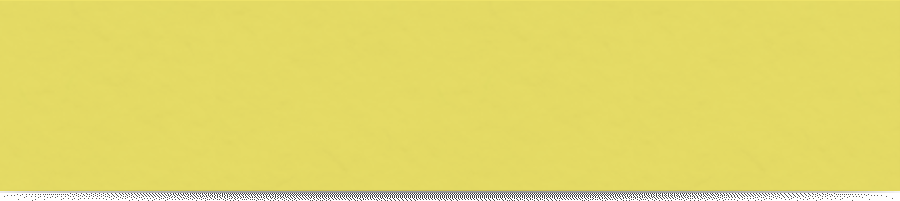
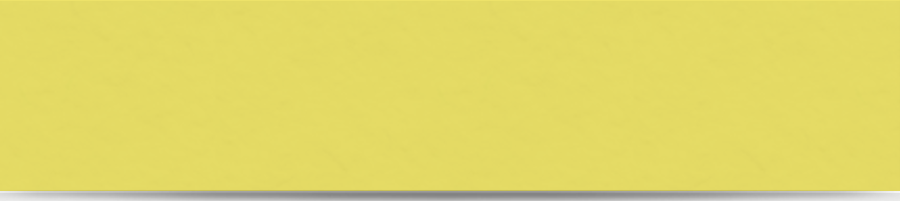
add  cell background in collection.(colored paper)

Changed region(s): [[0.0, 0.9552, 1.0, 1.0]]

diff --git a/DaysInLine/ViewController.m b/DaysInLine/ViewController.m
@@ -49,7 +49,10 @@
 @property(nonatomic, strong) NSMutableArray *collectEventStart;
 @property(nonatomic, strong) NSMutableArray *collectEventEnd;
 
+@property(nonatomic, strong) NSArray *cellBackground;
+
 @property (strong, nonatomic) IBOutlet UITableViewCell *cellinCollection;
+
 
 @end
 
@@ -76,7 +79,7 @@ bool selectedDayRedrawDone;
     }
 */
 
-
+    
 	// Do any additional setup after loading the view, typically from a nib.
     self.allTags = [[NSMutableArray alloc] init];
     self.EventsInTag = [[NSMutableArray alloc] init];
@@ -86,11 +89,13 @@ bool selectedDayRedrawDone;
     self.EventsIDInSearch = [[NSMutableArray alloc] init];
     
     self.collectEvent = [[NSMutableArray alloc] init];
-      self.collectEventTitle = [[NSMutableArray alloc] init];
-      self.collectEventTag = [[NSMutableArray alloc] init];
-      self.collectEventDate = [[NSMutableArray alloc] init];
-      self.collectEventStart = [[NSMutableArray alloc] init];
-      self.collectEventEnd = [[NSMutableArray alloc] init];
+    self.collectEventTitle = [[NSMutableArray alloc] init];
+    self.collectEventTag = [[NSMutableArray alloc] init];
+    self.collectEventDate = [[NSMutableArray alloc] init];
+    self.collectEventStart = [[NSMutableArray alloc] init];
+    self.collectEventEnd = [[NSMutableArray alloc] init];
+    
+    self.cellBackground = [[NSArray alloc] initWithObjects:@"cell1-1",@"cell2-1",@"cell3-1",@"cell4-1", nil];
     
     homeView *my_homeView = [[homeView alloc] initWithFrame:self.view.bounds];
     [self.view addSubview:my_homeView];
@@ -171,6 +176,7 @@ bool selectedDayRedrawDone;
     [formater setDateFormat:@"yyyy-MM-dd"];
     self.today= [formater stringFromDate:curDate];
     NSLog(@"!!!!!!!%@",self.today);
+    
     
     
     //创建或打开数据库
@@ -1339,7 +1345,9 @@ bool selectedDayRedrawDone;
                 NSLog(@"%@,%@,%@,%@",self.collectEventTitle[row4],self.collectEventTag[row4],self.collectEventDate[row4],self.collectEventStart[row4]);
             
                 UIImageView *imageView = [[UIImageView alloc] initWithFrame:CGRectMake(0, 0, 215, 48)];
-                imageView.image = [UIImage imageNamed:@"cell1-4.png"];
+                
+                
+                imageView.image = [UIImage imageNamed:self.cellBackground[arc4random()%4]];
                 
                 
                 cell_4.backgroundView = imageView;
